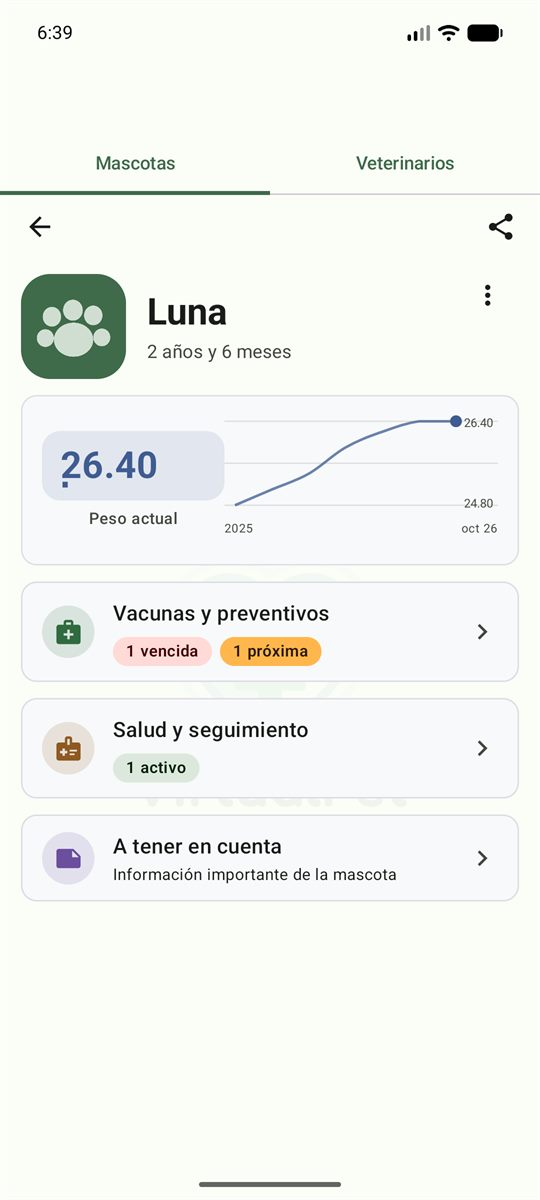
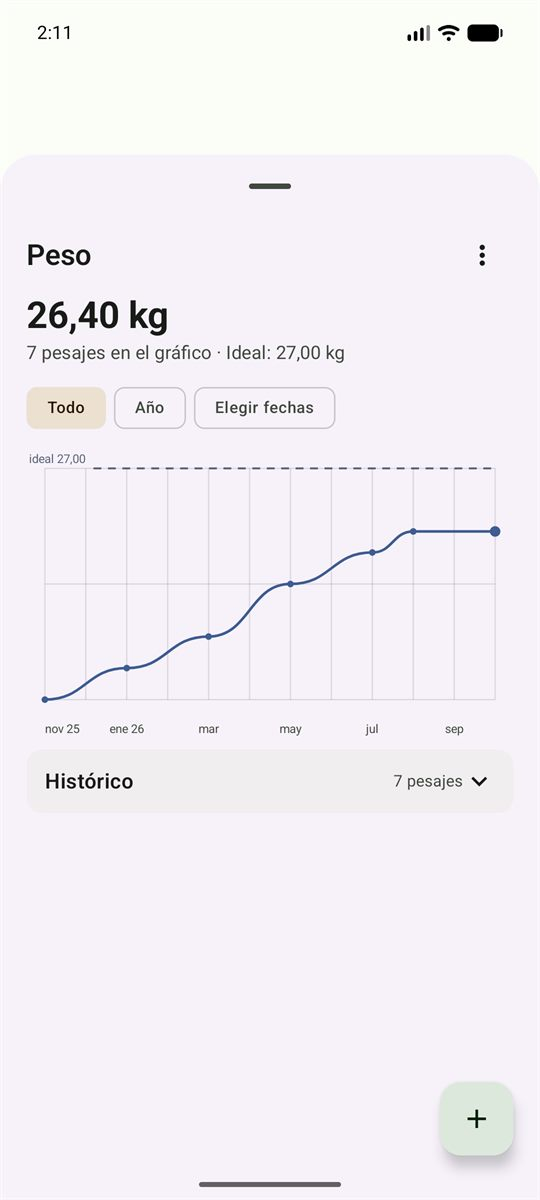
Grafico de peso: ajustar todo el historial al ancho disponible (sin arrastre) para que la linea nunca quede cortada; ejes y etiquetas dentro de los topes

diff --git a/shared/src/commonMain/kotlin/com/example/virtualpetkmp/ui/HojaPesoDetallada.kt b/shared/src/commonMain/kotlin/com/example/virtualpetkmp/ui/HojaPesoDetallada.kt
@@ -2,7 +2,6 @@ package com.example.virtualpetkmp.ui
 
 import androidx.compose.foundation.Canvas
 import androidx.compose.foundation.clickable
-import androidx.compose.foundation.gestures.detectDragGestures
 import androidx.compose.foundation.layout.Arrangement
 import androidx.compose.foundation.layout.Box
 import androidx.compose.foundation.layout.BoxWithConstraints
@@ -37,7 +36,6 @@ import androidx.compose.material3.Surface
 import androidx.compose.material3.Text
 import androidx.compose.material3.TextButton
 import androidx.compose.runtime.Composable
-import androidx.compose.runtime.LaunchedEffect
 import androidx.compose.runtime.getValue
 import androidx.compose.runtime.mutableStateOf
 import androidx.compose.runtime.remember
@@ -50,7 +48,6 @@ import androidx.compose.ui.geometry.Offset
 import androidx.compose.ui.graphics.Path
 import androidx.compose.ui.graphics.PathEffect
 import androidx.compose.ui.graphics.drawscope.Stroke
-import androidx.compose.ui.input.pointer.pointerInput
 import androidx.compose.ui.platform.LocalDensity
 import androidx.compose.ui.text.TextStyle
 import androidx.compose.ui.text.drawText
@@ -552,61 +549,25 @@ private fun GraficoLineaMeses(
     val estiloEtiqueta = TextStyle(fontSize = 9.sp, color = colorTexto)
     val densidad = LocalDensity.current
     val altoEtiquetas = with(densidad) { 16.dp.toPx() }
-    val margenLados = with(densidad) { 10.dp.toPx() }
-
-    // Posición de desplazamiento en píxeles: se guarda entre recomposiciones para no perderla
-    // al abrir la hoja otra vez.
-    var desplazamiento by rememberSaveable { mutableStateOf(0f) }
 
     BoxWithConstraints(modifier = modifier) {
-        val margenLadosDp = 10.dp
-        val anchoMaxDp = (maxWidth - margenLadosDp * 2).coerceAtLeast(1.dp)
-        val anchoPx = with(densidad) { anchoMaxDp.toPx() }
-
-        // Si hay meses de sobra, se ven unas 6 unidades por pantalla; si son pocos, se
-        // reparten a lo ancho para no dejar huecos.
-        val pasoMinimoDp = 52.dp
-        val pasoMaximoDp = 60.dp
-        val pasoTeoricoDp = anchoMaxDp / 6
-        val pasoDp = pasoTeoricoDp.coerceIn(pasoMinimoDp, pasoMaximoDp)
-        val pasoPx = with(densidad) { pasoDp.toPx() }
-        val anchoContenidoPx = pasoPx * (meses.size - 1).coerceAtLeast(1)
-
-        // Tope a cada lado, igual que en el gráfico de la ficha: el recorrido del arrastre se
-        // recorta para que el primer y el último punto nunca lleguen al borde de la hoja, ni
-        // siquiera al llevar el gráfico de punta a punta.
+        // Todo el histórico se ajusta al ancho disponible: no hay desplazamiento, así que la
+        // línea nunca puede quedar cortada contra los bordes. Con muchos meses los puntos
+        // quedan más juntos, y por eso las etiquetas se van saltando para no solaparse.
         val topeLadosPx = with(densidad) { 14.dp.toPx() }
-        val maxDesplazamiento =
-            (anchoContenidoPx - anchoPx + topeLadosPx).coerceAtLeast(0f)
-        val desplazamientoMinimo = (topeLadosPx * 2 - anchoPx).coerceAtMost(0f)
-
-        // Al abrir, se enseña el final del histórico, que es el peso más reciente.
-        LaunchedEffect(anchoPx, maxDesplazamiento) {
-            if (desplazamiento == 0f) desplazamiento = maxDesplazamiento
-        }
-
-        // Las etiquetas se adelgazan si hay muchísimos meses, para que no se solapen.
-        val saltoEtiquetas = (meses.size / 12 + 1).coerceAtLeast(1)
-        val desplazamientoPx = desplazamiento.coerceIn(desplazamientoMinimo, maxDesplazamiento)
+        val saltoEtiquetas = (meses.size / 8 + 1).coerceAtLeast(1)
 
         Canvas(
-            modifier = Modifier
-                .fillMaxSize()
-                .pointerInput(anchoPx, maxDesplazamiento, desplazamientoMinimo) {
-                    detectDragGestures { cambio, arrastre ->
-                        cambio.consume()
-                        desplazamiento = (desplazamiento - arrastre.x)
-                            .coerceIn(desplazamientoMinimo, maxDesplazamiento)
-                    }
-                }
+            modifier = Modifier.fillMaxSize()
         ) {
             val altoGrafico = (size.height - altoEtiquetas).coerceAtLeast(1f)
-            val margenInterno = margenLados.coerceAtMost(size.width / 6f)
+            val margenInterno = topeLadosPx.coerceAtMost(size.width / 6f)
             val altoUtil = (altoGrafico - margenInterno * 2).coerceAtLeast(1f)
-            // Ancho del hueco visible: las etiquetas que caen fuera del recorte no se dibujan.
             val anchoVisible = size.width
+            val anchoUtil = (size.width - margenInterno * 2).coerceAtLeast(1f)
 
-            fun x(indice: Int): Float = margenInterno + indice * pasoPx - desplazamientoPx
+            fun x(indice: Int): Float =
+                margenInterno + (indice.toFloat() / (meses.size - 1).coerceAtLeast(1)) * anchoUtil
 
             // Solo los meses con pesaje: los huecos (meses sin datos) no se dibujan como
             // puntos, pero la línea sí los atraviesa para que la evolución se vea entera.
@@ -633,8 +594,8 @@ private fun GraficoLineaMeses(
                 val lineaY = margenInterno + altoUtil * fraccion
                 drawLine(
                     color = colorReferencia,
-                    start = Offset(0f, lineaY),
-                    end = Offset(size.width, lineaY),
+                    start = Offset(margenInterno, lineaY),
+                    end = Offset(size.width - margenInterno, lineaY),
                     strokeWidth = 1.dp.toPx()
                 )
             }
@@ -655,7 +616,7 @@ private fun GraficoLineaMeses(
                 drawLine(
                     color = colorIdeal,
                     start = Offset(medidaIdeal.size.width + 8.dp.toPx(), yIdeal),
-                    end = Offset(size.width, yIdeal),
+                    end = Offset(size.width - margenInterno, yIdeal),
                     strokeWidth = 1.5.dp.toPx(),
                     pathEffect = PathEffect.dashPathEffect(
                         floatArrayOf(6.dp.toPx(), 5.dp.toPx())
@@ -712,10 +673,10 @@ private fun GraficoLineaMeses(
                     MESES_CORTOS_GRAFICO[mes.mes - 1]
                 }
                 val medida = textMeasurer.measure(etiqueta, style = estiloEtiqueta)
-                // Se centra en el mes, se mete dentro del gráfico y, si quedaría pegada a la
+                // Se centra en el mes, se mete dentro del margen y, si quedaría pegada a la
                 // etiqueta anterior, se salta: mejor un mes sin rótulo que dos montados.
                 val idealX = (x(indice) - medida.size.width / 2f)
-                    .coerceIn(0f, (anchoVisible - medida.size.width).coerceAtLeast(0f))
+                    .coerceIn(margenInterno, (anchoVisible - margenInterno - medida.size.width).coerceAtLeast(margenInterno))
                 if (idealX < bordeDerecho + 6.dp.toPx()) return@forEachIndexed
                 datosEtiquetas.add(etiqueta to idealX)
                 bordeDerecho = idealX + medida.size.width

diff --git a/shared/src/commonMain/kotlin/com/example/virtualpetkmp/ui/FichaMascotaScreen.kt b/shared/src/commonMain/kotlin/com/example/virtualpetkmp/ui/FichaMascotaScreen.kt
@@ -1036,6 +1036,11 @@ private fun SparklinePeso(
         // punto queda con aire a su izquierda y el último con la banda a su derecha.
         val inicioGrafico = topeIzquierdoPx.coerceAtMost(size.width / 4f)
         val anchoGrafico = (size.width - bandaDerechaPx - inicioGrafico).coerceAtLeast(1f)
+        // Se dibujan como mucho 14 pesadas, y siempre caben: si algún día hubiera más datos
+        // que ancho, se recortan por el principio en vez de salirse del lienzo.
+        val anchoVisible = (size.width - bandaDerechaPx).coerceAtLeast(1f)
+        val anchoContenido = (puntos.size - 1) * (anchoGrafico / 6f)
+        val recorteIzquierdo = (anchoContenido - anchoVisible).coerceAtLeast(0f)
         val altoUtil = (size.height - padV * 2).coerceAtLeast(1f)
         val grosorLinea = 1.dp.toPx()
 
@@ -1052,7 +1057,7 @@ private fun SparklinePeso(
         }
 
         fun x(indice: Int): Float =
-            inicioGrafico + (indice.toFloat() / (puntos.size - 1)) * anchoGrafico
+            inicioGrafico + (indice.toFloat() / (puntos.size - 1)) * anchoGrafico - recorteIzquierdo
 
         fun y(peso: Double): Float {
             val normalizado = if (rango <= 0.0001f) 0.5f else ((peso - minPeso) / rango).toFloat()
